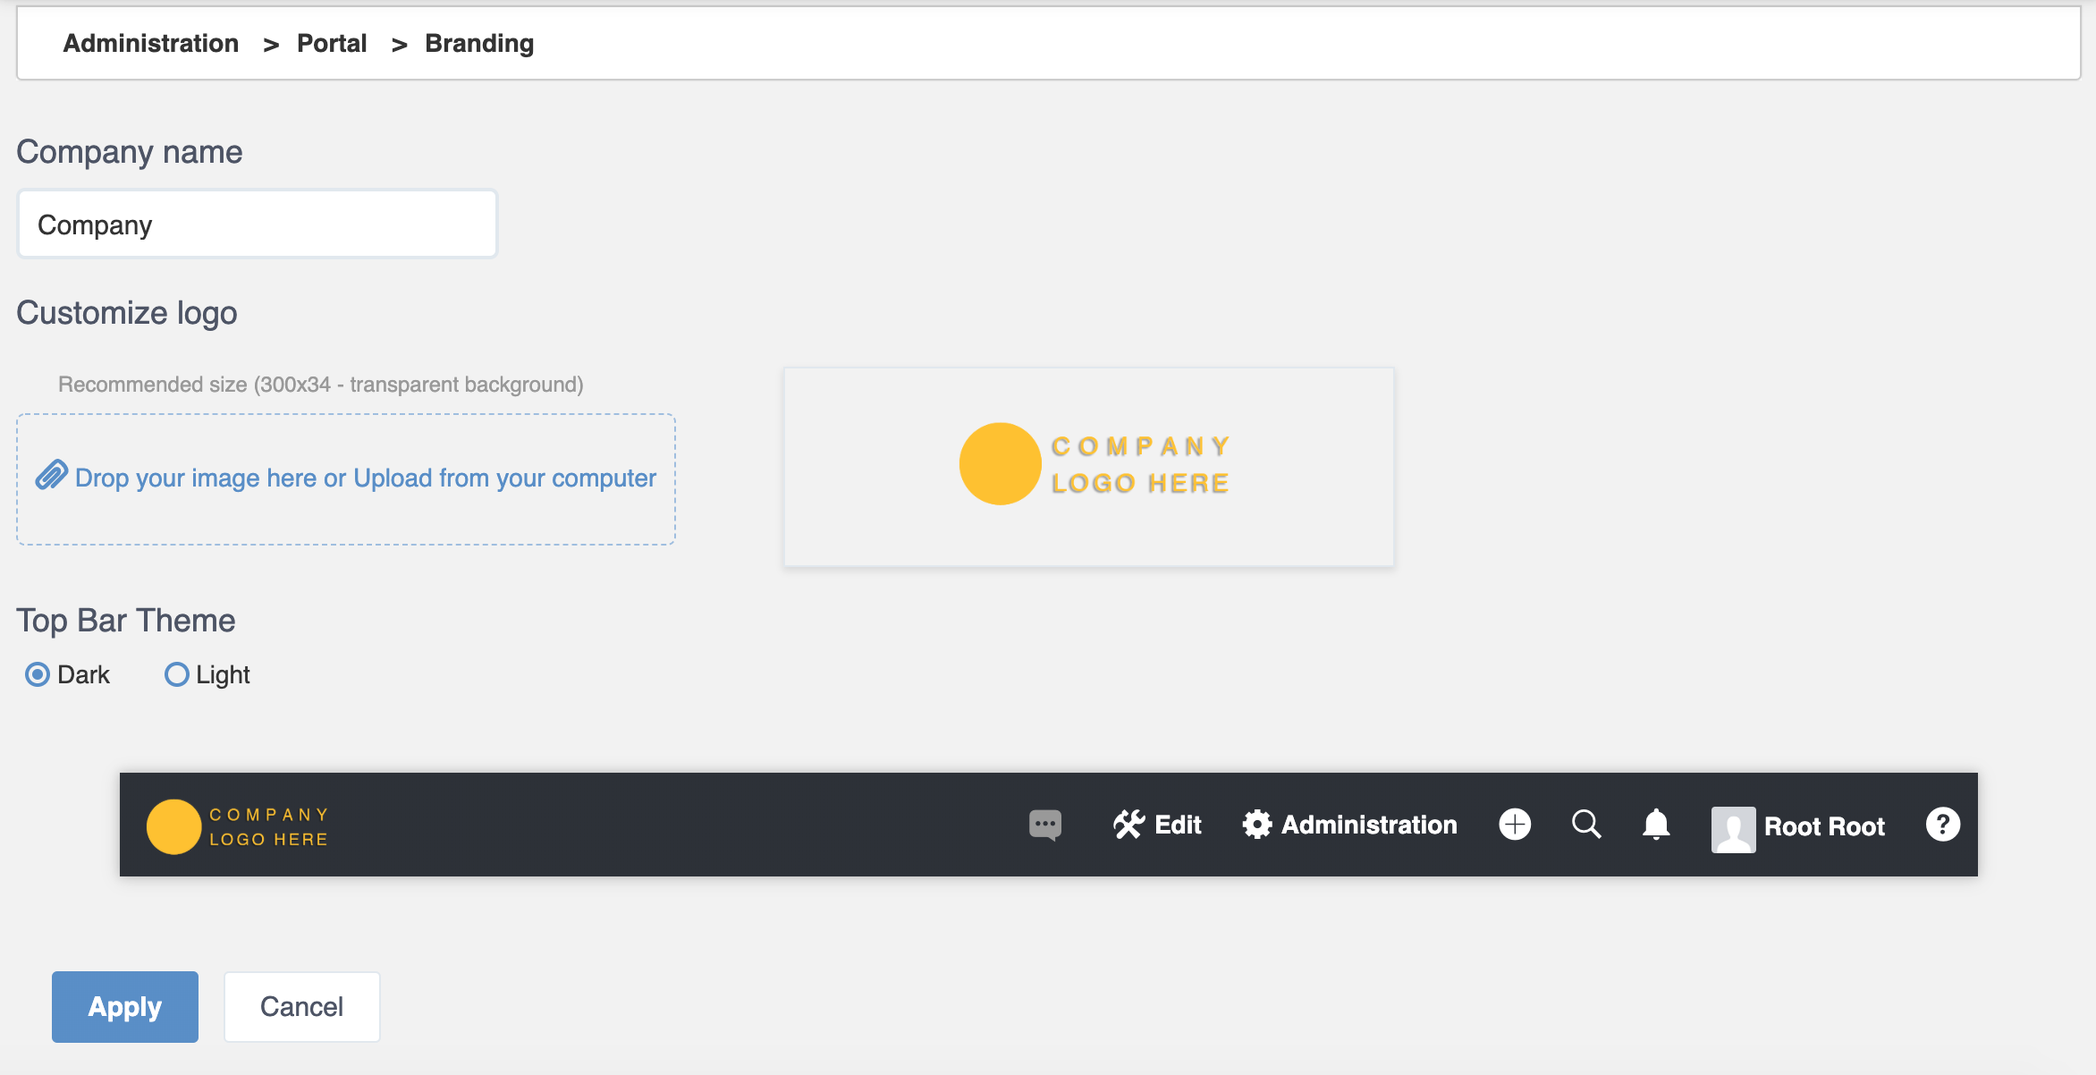
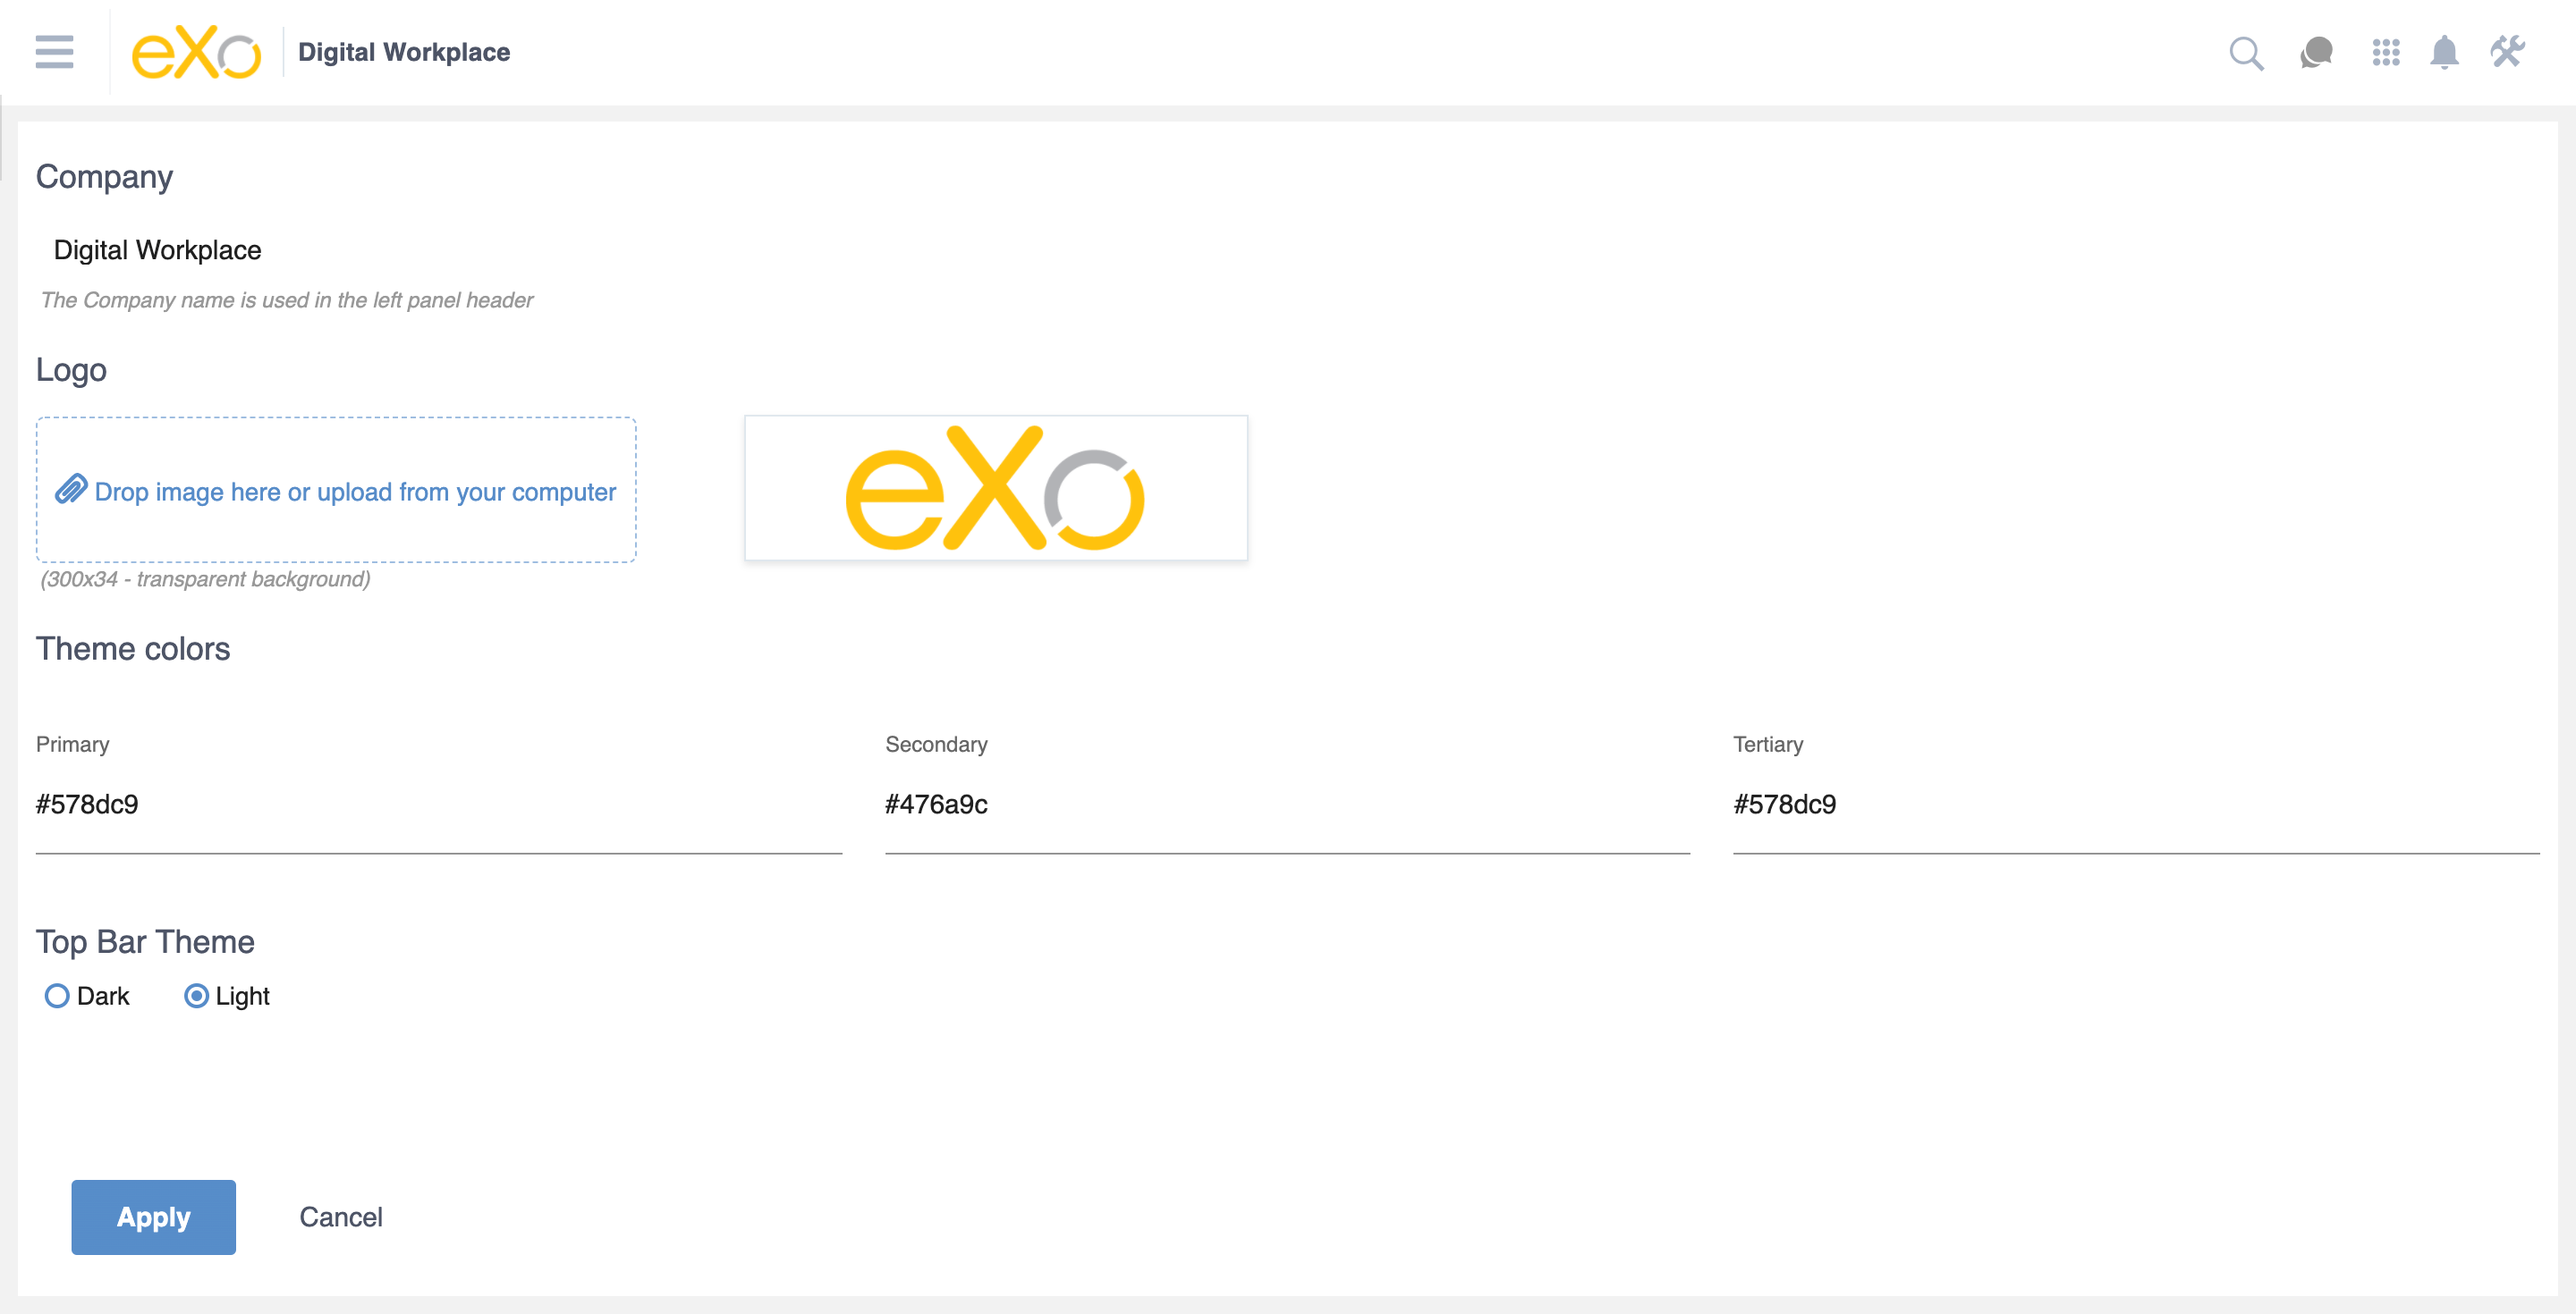
DOC-4384: [BRANDING-1] Enhance eXo Branding to make it more extensible

diff --git a/docs/Administration.rst b/docs/Administration.rst
@@ -90,7 +90,7 @@ Branding eXo Platform
 eXo Platform allows you to easily brand eXo Platform by changing your company logo
 and the color of the top navigation bar in the portal.
 
-1. Click |image0| --> Portal --> Branding on the top navigation bar.
+1. Click |image0| --> OTHER --> Branding on the top navigation bar.
 
 The Branding page will be displayed:
 
@@ -105,12 +105,11 @@ The Branding page will be displayed:
 
 -  The Select Navigation Bar Style pane: Selects the navigation bar
    style suitable to your logo. There are two styles available on the
-   portal, consisting of Dark which is default, and Light.
+   portal, consisting of Light which is default, and Dark.
 
--  The Preview pane: Displays the preview of the top navigation bar with
-   the currently defined logo and navigation bar style.
+-  The Primary, Secondary and Tertiary colors of the Digital Workplace branding.
 
-.. note::  As default values, the default Company name is **COMPANY** and a default logo are predefined in the platform.
+.. note::  As default values, the default Company name is **COMPANY** and a default logo are predefined in the Digital Workplace.
 
 
 2. Click *Drop your image here or Upload from your computer* to browse and upload the logo from your local device;
@@ -121,15 +120,19 @@ browser supports the HTML 5 and the Drag and Drop function.
 
 .. note::  Even if you delete your company logo, the default logo will be displayed..
 
-3. Click the box in the Select Navigation Bar Style pane and select one
+3. Click on Primary, Secondary and Tertiary color pickers so that your style selection from a color picker will also make the color 
+   of buttons and backgournd.
+
+
+
+4. Click the box in the Select Navigation Bar Style pane and select one
    style from the two choices displayed in radio buttons.
 
-Your style selection will also make the color of fonts on the top
-navigation bar change.
+
 
 .. tip:: If your logo is light and colorful, you should select the Dark style. If it is darker, you should select the Light style.
 
-4. Click Save to accept your changes.
+5. Click Save to accept your changes.
 
 .. _NotificationAdministration:
 
